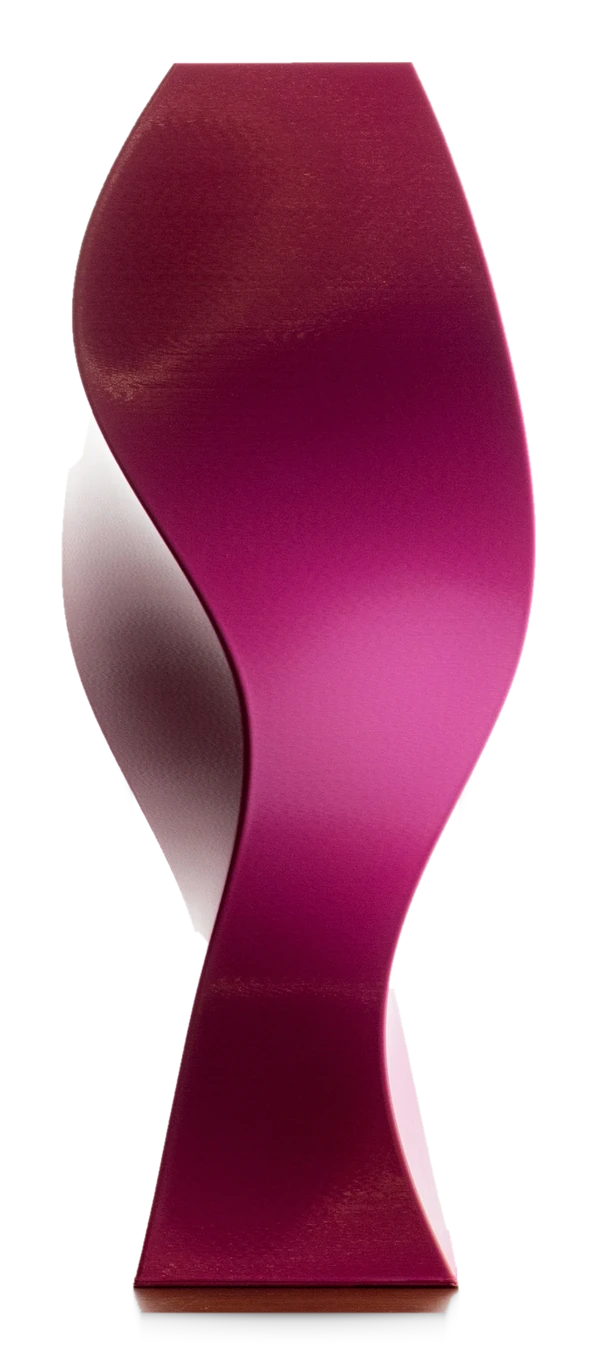
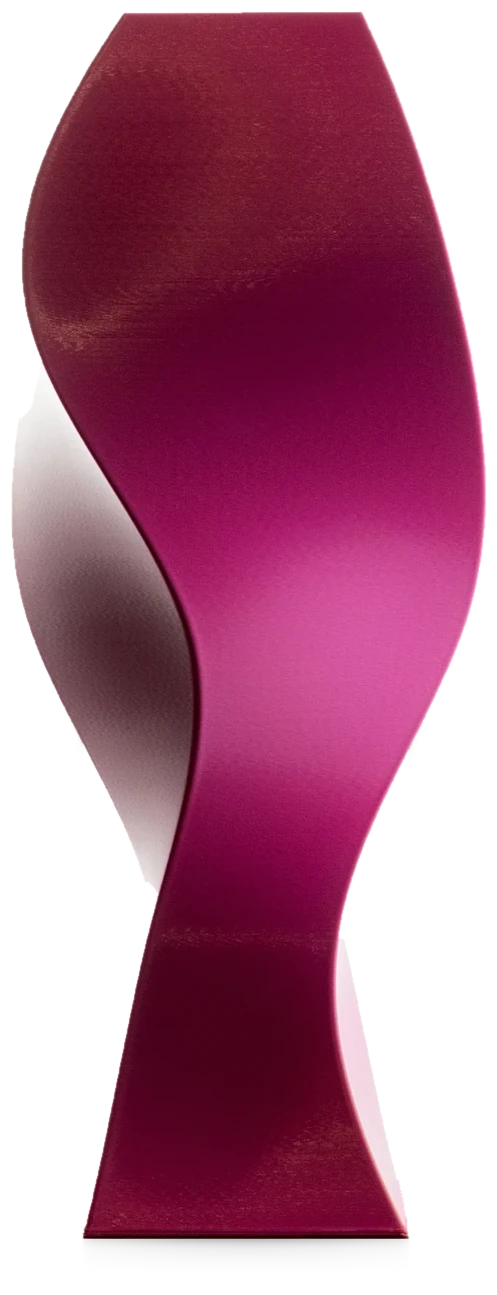
Zig raddrizzato, Torsione base pulita, 3D misure Spira/Zig, video Spira secondo

Changed region(s): [[0.0, 0.0, 0.996, 0.9884]]

diff --git a/prodotto-spira.html b/prodotto-spira.html
@@ -649,12 +649,12 @@
      ========================================================================= */
   var FOTO = [
     { src:'images/spin-scontornato.webp?v=6', alt:'Spira Sage — vista frontale' },
+    { video:'images/Spin/web/spin-video.mp4', poster:'images/Spin/web/spin-video-poster.jpg', alt:'Video del vaso Spira Sage' },
     { src:'images/Spin/web/spin-giallo-roccia.jpg', alt:'Spira Giallo appoggiato su una roccia' },
     { src:'images/Spin/web/spin-magenta-roccia.jpg', alt:'Spira Magenta tra le rocce vicino all\'acqua' },
     { src:'images/Spin/web/spin-magenta-rametto.jpg', alt:'Spira Magenta con un rametto, all\'aperto' },
     { src:'images/Spin/web/spin-sage-mani.jpg', alt:'Spira Sage tenuto tra le mani' },
-    { src:'images/Spin/web/spin-giallo-mani.jpg', alt:'Spira Giallo sollevato tra le mani' },
-    { video:'images/Spin/web/spin-video.mp4', poster:'images/Spin/web/spin-video-poster.jpg', alt:'Video del vaso Spira Sage' }
+    { src:'images/Spin/web/spin-giallo-mani.jpg', alt:'Spira Giallo sollevato tra le mani' }
   ];
   </script>
 
@@ -1015,7 +1015,7 @@
     function altezzaInquadratura() {
       var mobile = stretto && stretto.matches;
       var grande = (window.PVMisura && window.PVMisura() === 'l');
-      var t = grande ? 0.175 : 0.135, d = grande ? 0.96 : 0.76;
+      var t = grande ? 0.175 : 0.175, d = grande ? 0.96 : 0.96;
       mv.setAttribute('camera-target', '0m ' + (mobile ? (t * 0.85).toFixed(3) : t) + 'm 0m');
       mv.setAttribute('camera-orbit',  '20deg 78deg ' + (mobile ? (d * 1.12).toFixed(2) : d) + 'm');
       mv.setAttribute('min-camera-orbit', 'auto 30deg ' + (d * 0.74).toFixed(2) + 'm');

diff --git a/tutti-i-design.html b/tutti-i-design.html
@@ -133,7 +133,7 @@
 
         <a href="prodotto-zig.html" class="product-card reveal">
           <div class="card-img card-img--flat" style="display:flex; align-items:flex-end; justify-content:center; padding:12px 12px 0;">
-            <img src="images/zig-blu-scontornato.webp?v=4" alt="Zig" style="height:61.0%; width:auto; max-width:100%; object-fit:contain; object-position:center bottom; transform:translateY(calc(9.33% - 16px));">
+            <img src="images/zig-blu-scontornato.webp?v=5" alt="Zig" style="height:61.0%; width:auto; max-width:100%; object-fit:contain; object-position:center bottom; transform:translateY(calc(9.34% - 16px));">
           </div>
           <p class="product-card-title">Zig</p>
           <span class="pc-prezzo" data-prezzo="zig-s"></span>
@@ -143,7 +143,7 @@
 
         <a href="prodotto-torsione.html" class="product-card reveal reveal-delay-2">
           <div class="card-img card-img--flat" style="display:flex; align-items:flex-end; justify-content:center; padding:12px 12px 0;">
-            <img src="images/torsione-scontornato.webp" alt="Torsione" style="height:73.0%; width:auto; max-width:100%; object-fit:contain; object-position:center bottom; transform:translateY(calc(3.03% - 16px));">
+            <img src="images/torsione-scontornato.webp?v=2" alt="Torsione" style="height:71.2%; width:auto; max-width:100%; object-fit:contain; object-position:center bottom; transform:translateY(calc(4.32% - 16px));">
           </div>
           <p class="product-card-title">Torsione</p>
           <span class="pc-prezzo" data-prezzo="torsione"></span>

diff --git a/prodotto-torsione.html b/prodotto-torsione.html
@@ -592,7 +592,7 @@
      mostrata per prima quando quel colore e' selezionato (gia' previsto).
      ========================================================================= */
   var FOTO = [
-    { src:'images/torsione-scontornato.webp', alt:'Torsione — vista frontale' },
+    { src:'images/torsione-scontornato.webp?v=2', alt:'Torsione — vista frontale' },
     { src:'images/Torsione/web/torsione-foto.jpg', alt:'Torsione su un piano in legno, davanti a una parete chiara' },
     { video:'images/Torsione/web/torsione-video.mp4', poster:'images/Torsione/web/torsione-video-poster.jpg', alt:'Video del vaso Torsione' }
   ];

diff --git a/prodotto-zig.html b/prodotto-zig.html
@@ -1007,7 +1007,7 @@
     function altezzaInquadratura() {
       var mobile = stretto && stretto.matches;
       var grande = (window.PVMisura && window.PVMisura() === 'l');
-      var t = grande ? 0.16 : 0.125, d = grande ? 1.12 : 0.88;
+      var t = grande ? 0.16 : 0.16, d = grande ? 1.12 : 1.12;
       mv.setAttribute('camera-target', '0m ' + (mobile ? (t * 0.85).toFixed(3) : t) + 'm 0m');
       mv.setAttribute('camera-orbit',  '20deg 78deg ' + (mobile ? (d * 1.12).toFixed(2) : d) + 'm');
       mv.setAttribute('min-camera-orbit', 'auto 30deg ' + (d * 0.74).toFixed(2) + 'm');
